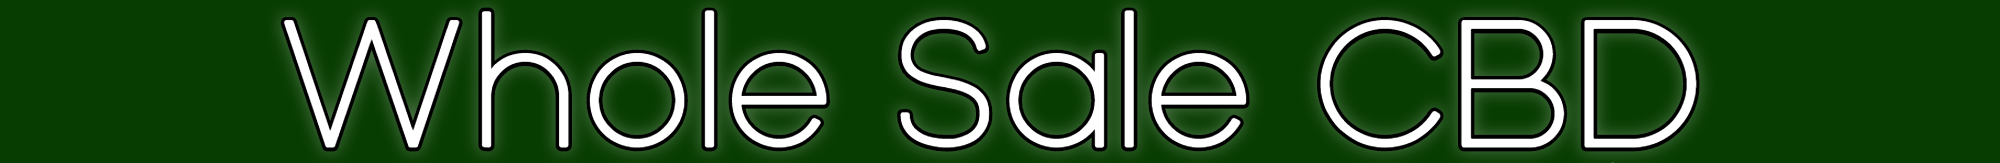
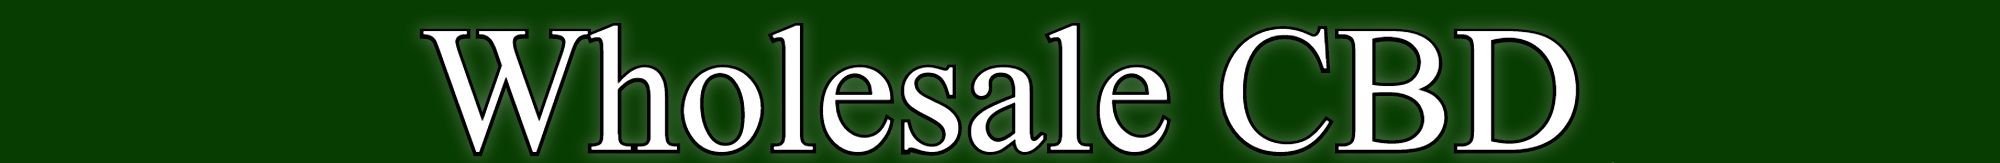
fixed spelling and wholesale

diff --git a/index.html b/index.html
@@ -39,8 +39,8 @@
          <div id="benefits">
             <h1>Benefits</h1>
             <p>
-               CBD is a popular natural remedy used for many commmon ailments.
-               It is often used to releive pain, reduce anxiety and depression, and help treat other types of illnesses.
+               CBD is a popular natural remedy used for many common ailments.
+               It is often used to relieve pain, reduce anxiety and depression, and help treat other types of illnesses.
                Studies have shown that CBD may help reduce chronic pain by impacting endocannabinoid receptor activity, 
                reducing inflammation and interacting with neurotransmitters. 
                Another small experiment in the journal Neuropsychopharmacology found
